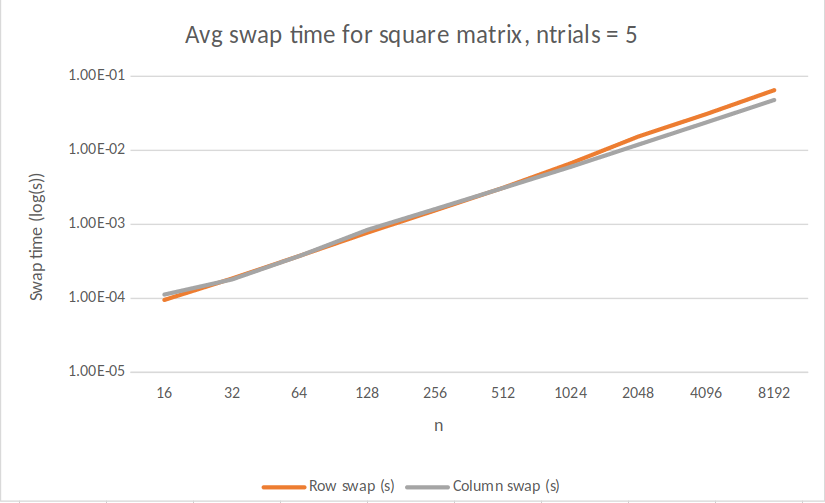
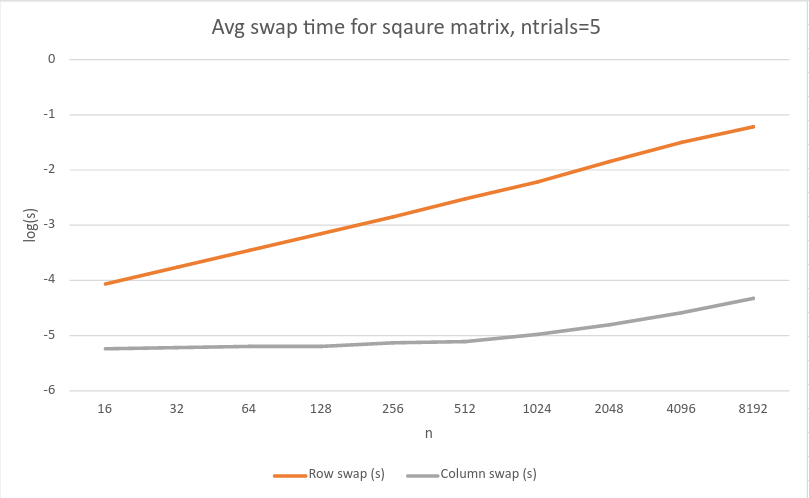
Update plots for problem 5 based on optimization

diff --git a/hw4/src/p5.cpp b/hw4/src/p5.cpp
@@ -85,8 +85,8 @@ void problem_5()
       fileToSwap.close();
 
       results_file << std::fixed << std::setprecision(0) << n << ", " <<
-         std::scientific << std::setprecision(10) << row_duration << ", " <<
-         column_duration << std::endl;
+         std::scientific << std::setprecision(10) << std::log10(row_duration)
+         << ", " << std::log10(column_duration) << std::endl;
 
       n <<= 1;
    }
